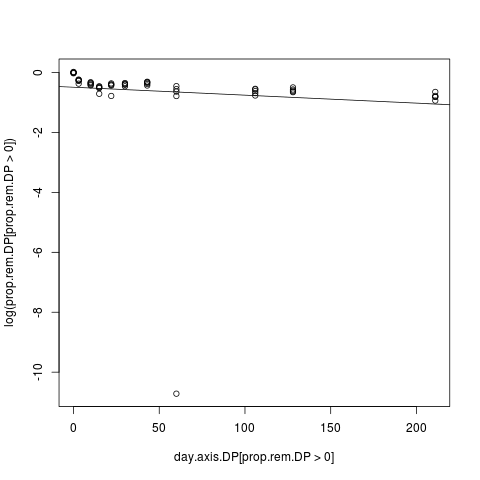
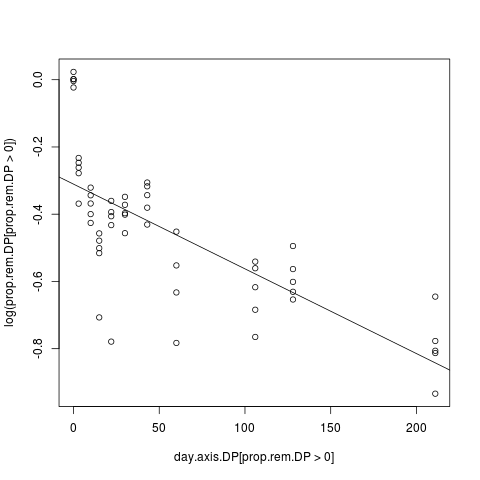
fixed the missing value in the DP leaf decomp data

diff --git a/lab_notebook_entries/data_analysis/code/Litter_Decomp_2013-14_analysis.md b/lab_notebook_entries/data_analysis/code/Litter_Decomp_2013-14_analysis.md
@@ -10,6 +10,9 @@ The experiment was to assess the loss of mass from leaves in 3 ponds in Farmvill
 
 * Modified 24 March 2014
 
+* Modified 11 June 2015 - KF - completed analysis with the latest data and updated code to remove the outlier from DP
+
+
 ## Author
 
 KF
@@ -42,6 +45,29 @@ KF
     T0.DP <- mean(leaf$AFDM[leaf$lake == "Daulton Pond" & leaf$days == 0], na.rm = T)
     prop.rem.DP <- 1 - ((T0.DP - leaf$AFDM[leaf$lake == "Daulton Pond"]) / T0.DP)
 
+##### Remove Incorrect Point due to Missing Data
+
+One of the points is basically 0 due to missing data
+
+    leaf[128, ]
+
+~~~~
+
+          lake sample   date_col julian year    bag bag_leaf days cruc_num
+128 Daulton Pond     48 12/21/2013    355 2013 7.3292   7.3293   60        4
+    cruc_empty cruc_full cruc_ash leaf_mass leaf_mass_AFDM ash_mass_AFDM
+128     27.487   30.2993  27.7033     1e-04         2.8123        0.2163
+       propOM         AFDM
+128 0.9230879 9.230879e-05
+
+~~~~
+
+to prevent this from affecting the calculation of k, I converted this value to NA in the data
+
+    prop.rem.DP[58] <- NA
+
+Create the days axis
+
     day.axis.DP <- leaf$days[leaf$lake == "Daulton Pond"] 
 
     plot(prop.rem.DP[prop.rem.DP > 0] * 100 ~ day.axis.DP[prop.rem.DP > 0], xlab = "Days in Pond", ylab = "Percent Mass Remaining", ylim = c(0, 100), pch = 16)
@@ -56,10 +82,10 @@ _Percent leaf pack mass remining in Daulton Pond by days in the pond_
 
     DP.k <- lm(log(prop.rem.DP[prop.rem.DP > 0]) ~ day.axis.DP[prop.rem.DP > 0])
 
+    summary(DP.k)
+
 ~~~~
 
-    summary(DP.k)
-    summary(DP.k)
 
 Call:
 lm(formula = log(prop.rem.DP[prop.rem.DP > 0]) ~ day.axis.DP[prop.rem.DP > 
@@ -67,20 +93,19 @@ lm(formula = log(prop.rem.DP[prop.rem.DP > 0]) ~ day.axis.DP[prop.rem.DP >
 
 Residuals:
      Min       1Q   Median       3Q      Max 
--10.0686   0.1139   0.1874   0.2471   0.5125 
+-0.41291 -0.06924  0.00411  0.06316  0.33392 
 
 Coefficients:
-                              Estimate Std. Error t value Pr(>|t|)  
-(Intercept)                  -0.489232   0.255748  -1.913   0.0612 .
-day.axis.DP[prop.rem.DP > 0] -0.002657   0.003012  -0.882   0.3816  
----
-Signif. codes:  0 ‘***’ 0.001 ‘**’ 0.01 ‘*’ 0.05 ‘.’ 0.1 ‘ ’ 1 
+                               Estimate Std. Error t value Pr(>|t|)    
+(Intercept)                  -0.3106079  0.0279081 -11.130 2.27e-15 
+day.axis.DP[prop.rem.DP > 0] -0.0025201  0.0003272  -7.703 3.76e-10 
+ 
+Residual standard error: 0.1525 on 52 degrees of freedom
+  (16 observations deleted due to missingness)
+Multiple R-squared: 0.5329,	Adjusted R-squared: 0.524 
+F-statistic: 59.34 on 1 and 52 DF,  p-value: 3.761e-10 
 
-Residual standard error: 1.404 on 53 degrees of freedom
-  (15 observations deleted due to missingness)
-Multiple R-squared: 0.01447,	Adjusted R-squared: -0.00412 
-F-statistic: 0.7784 on 1 and 53 DF,  p-value: 0.3816 
-
+ 
 ~~~~
 
     plot(log(prop.rem.DP[prop.rem.DP > 0]) ~ day.axis.DP[prop.rem.DP > 0])
